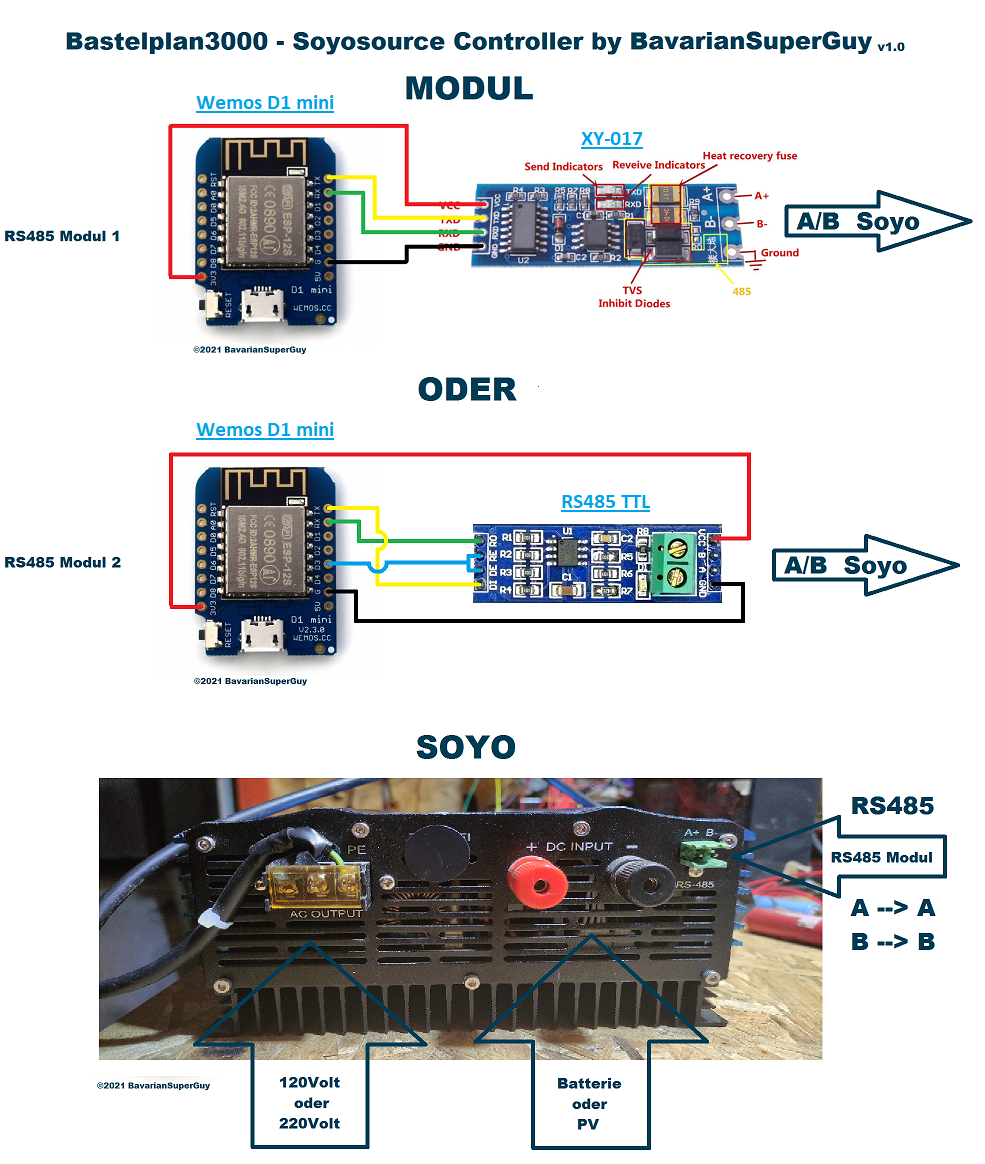
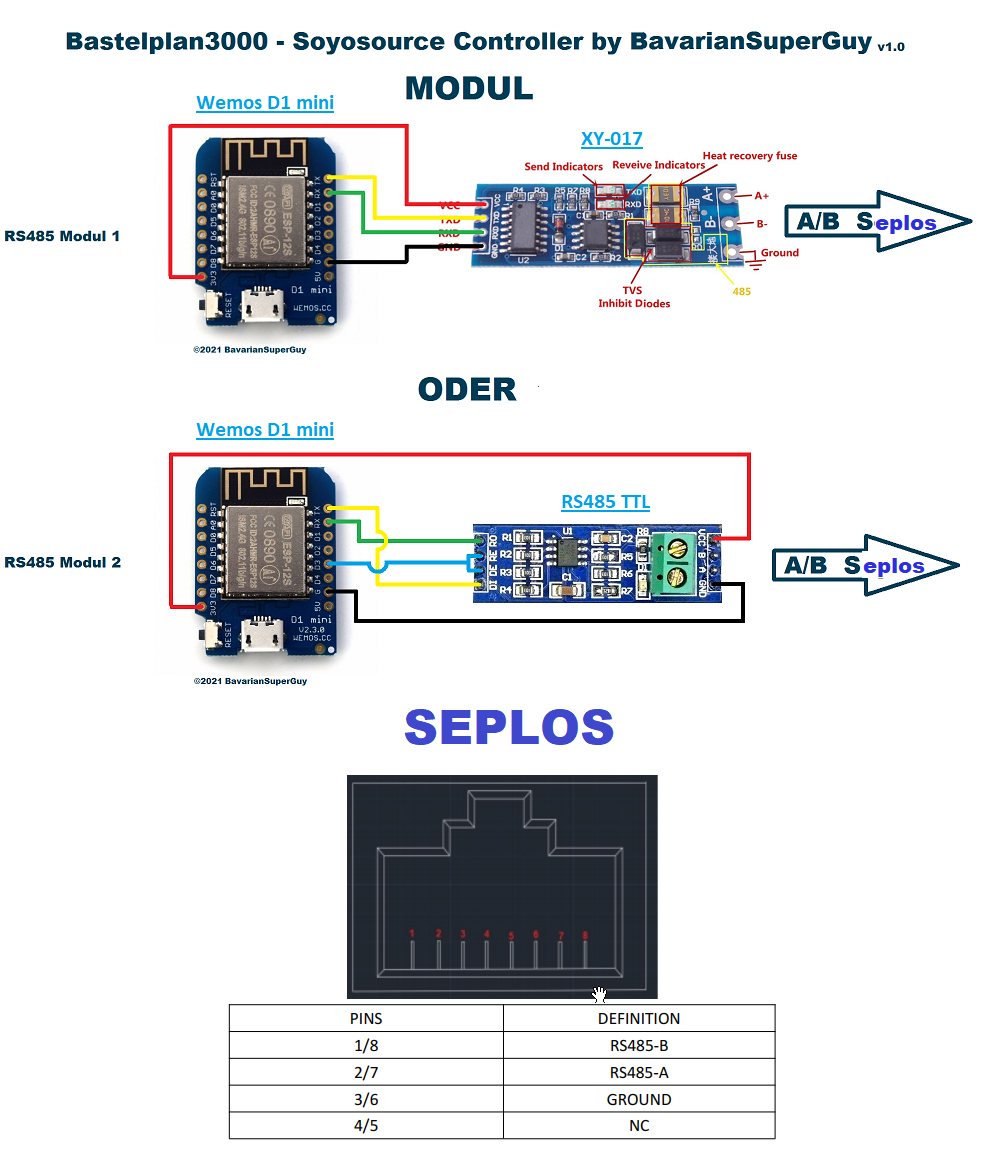
Bastelplan angepasst

Changed region(s): [[0.0914, 0.5876, 0.9746, 0.9897], [0.8832, 0.4639, 0.9442, 0.4948], [0.8832, 0.1856, 0.9442, 0.2165]]

diff --git a/README.md b/README.md
@@ -106,7 +106,7 @@ und klickt auf Save (Button ganz unten)
 CONFIGPORTAL############################################################################################
 
 
-DER BASTELPLAN3000 passt hier zwar nicht 100% , werde  ich noch anpassen.
+DER BASTELPLAN3000 MOD passt 100%.
 Vorab schon mal erwähnt am RS45 Kabel das zum BMS führt sind ´es die ersten 2 litzen die A und B darstellen 
 braun-weiss = A
 braun = B
